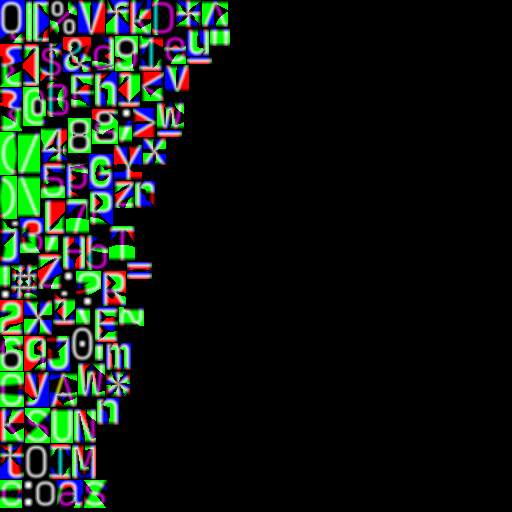
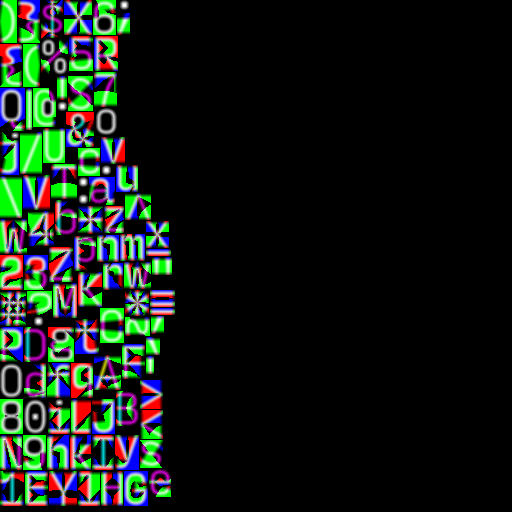
feat(examples): update msdf demo & assets

Changed region(s): [[0.0, 0.0, 0.4688, 1.0]]

diff --git a/examples/webgl-msdf/src/index.ts b/examples/webgl-msdf/src/index.ts
@@ -1,97 +1,230 @@
-import { sin } from "@thi.ng/dsp";
 import { start } from "@thi.ng/hdom";
 import { canvasWebGL } from "@thi.ng/hdom-components";
-import { transform44 } from "@thi.ng/matrices";
+import { fitClamped } from "@thi.ng/math";
+import {
+    concat,
+    lookAt,
+    perspective,
+    transform44
+} from "@thi.ng/matrices";
+import { SYSTEM } from "@thi.ng/random";
+import { fromEvent, Subscription } from "@thi.ng/rstream";
+import { map } from "@thi.ng/transducers";
+import { AttribPool, GLType } from "@thi.ng/vector-pools";
+import {
+    fit3,
+    madd,
+    mixN,
+    mulN,
+    ReadonlyVec,
+    Y3,
+    ZERO3
+} from "@thi.ng/vectors";
 import {
     adaptDPI,
     compileModel,
+    DEFAULT_BLEND,
     draw,
-    FX_SHADER_SPEC,
     GLMat4,
+    GLSL,
     ModelSpec,
-    quad,
-    screen2d,
     shader,
     texture
 } from "@thi.ng/webgl";
 import {
     alignCenter,
     convertGlyphs,
-    MSDF_SHADER,
+    MSDFFont,
+    msdfShader,
     text
 } from "@thi.ng/webgl-msdf";
 import GLYPHS from "../assets/inputmono-extralight-msdf.json";
 import GLYPH_TEX from "../assets/inputmono-extralight.png";
 
+const TEXT = `Do not go gentle into that good night,
+Old age should burn and rave at close of day;
+Rage, rage against the dying of the light.
+
+Though wise men at their end know dark is right,
+Because their words had forked no lightning they
+Do not go gentle into that good night.
+
+Good men, the last wave by, crying how bright
+Their frail deeds might have danced in a green bay,
+Rage, rage against the dying of the light.
+
+Wild men who caught and sang the sun in flight,
+And learn, too late, they grieved it on its way,
+Do not go gentle into that good night.
+
+Grave men, near death, who see with blinding sight
+Blind eyes could blaze like meteors and be gay,
+Rage, rage against the dying of the light.
+
+And you, my father, there on that sad height,
+Curse, bless, me now with your fierce tears, I pray.
+Do not go gentle into that good night.
+Rage, rage against the dying of the light.
+
+Dylan Thomas`;
+
+const createText = (
+    gl: WebGLRenderingContext,
+    font: MSDFFont,
+    img: HTMLImageElement,
+    txt: string,
+    col = [1, 0.8, 0, 1]
+) => {
+    const model = {
+        ...text(font, txt, {
+            align: alignCenter,
+            leading: 1.4,
+            useColor: true
+        }),
+        shader: shader(gl, msdfShader({ color: true })),
+        textures: [
+            texture(gl, {
+                image: img,
+                filter: gl.LINEAR,
+                wrap: gl.CLAMP_TO_EDGE
+            })
+        ],
+        uniforms: {
+            bg: [0, 0, 0, 1],
+            thresh: -0.2
+        }
+    };
+    // update bottom vertex colors of each character
+    for (let i = 2; i < model.attribPool.capacity; i += 4) {
+        model.attribPool.setAttribValues("color", [col, col], i);
+    }
+    return compileModel(gl, model);
+};
+
+const createStarField = (gl: WebGLRenderingContext, num = 1000) => {
+    const pool = new AttribPool({
+        attribs: {
+            position: { type: GLType.F32, size: 3, byteOffset: 0 },
+            dir: { type: GLType.F32, size: 3, byteOffset: 12 },
+            id: { type: GLType.F32, size: 1, byteOffset: 24 }
+        },
+        mem: {
+            size: num * 28 + 8
+        },
+        num
+    });
+    for (let i = 0, r = SYSTEM; i < num; i++) {
+        const pos = [r.minmax(-15, 15), r.minmax(0, 10), 0];
+        pool.setAttribValue("position", i, pos);
+        pool.setAttribValue(
+            "dir",
+            i,
+            mixN([], mulN([], pos, 0.1), [0, -1, r.minmax(2, 5)], 0.8)
+        );
+        pool.setAttribValue("id", i, i);
+    }
+    return compileModel(gl, {
+        attribs: null,
+        attribPool: pool,
+        uniforms: {},
+        shader: shader(gl, {
+            vs: `void main() {
+                v_alpha = sin(a_id * 37.13829) * 0.3 + 0.7;
+                vec3 pos = mod(a_position + a_dir * u_time, 10.) - vec3(5.);
+                gl_Position = u_proj * u_modelview * vec4(pos, 1.);
+                gl_PointSize = 20. / gl_Position.w;
+            }`,
+            fs: `void main() {
+                float a = 1. - smoothstep(0.1, 0.5, length(gl_PointCoord - vec2(0.5)));
+                o_fragColor = vec4(v_alpha,v_alpha, v_alpha, a);
+            }`,
+            attribs: {
+                position: GLSL.vec3,
+                dir: GLSL.vec3,
+                id: GLSL.float
+            },
+            varying: {
+                alpha: GLSL.float
+            },
+            uniforms: {
+                modelview: GLSL.mat4,
+                proj: GLSL.mat4,
+                time: GLSL.float
+            },
+            state: {
+                blend: true,
+                blendFn: DEFAULT_BLEND
+            }
+        }),
+        mode: gl.POINTS,
+        num
+    });
+};
+
 const app = () => {
     const glyphs = convertGlyphs(GLYPHS);
-    let bgmodel: ModelSpec;
-    let model: ModelSpec;
-    let bg = 0.2;
+    let stars: ModelSpec;
+    let body: ModelSpec;
+    let mouse: Subscription<any, ReadonlyVec>;
+    let bg = 0;
     const canvas = canvasWebGL({
-        init: async (_, gl) => {
+        init: async (el, gl) => {
             const img = new Image();
             img.src = GLYPH_TEX;
             await img.decode();
-            model = compileModel(
-                gl,
-                text(
-                    glyphs,
-                    "01234567890\n-=`~!@#$%^&*()_+;',./:\"{}<>?\\|\nabcdefghijklmnopqrstuvwxyz\nABCDEFGHIJKLMNOPQRSTUVWXYZ",
-                    { align: alignCenter, useColor: true }
+            body = createText(gl, glyphs, img, TEXT);
+            stars = createStarField(gl);
+            body.uniforms.proj = stars.uniforms.proj = <GLMat4>(
+                perspective(
+                    [],
+                    60,
+                    gl.drawingBufferWidth / gl.drawingBufferHeight,
+                    0.1,
+                    20
                 )
             );
-            model.shader = shader(gl, MSDF_SHADER({ color: true }));
-            model.textures = [
-                texture(gl, {
-                    image: img,
-                    filter: gl.LINEAR,
-                    wrap: gl.CLAMP_TO_EDGE
-                })
-            ];
-            model.uniforms.proj = screen2d(
-                gl.drawingBufferWidth,
-                gl.drawingBufferHeight
+            mouse = fromEvent(el, "mousemove").transform(
+                map((e: MouseEvent) =>
+                    fit3(
+                        [],
+                        [e.clientX, e.clientY, 0],
+                        ZERO3,
+                        [window.innerWidth, window.innerHeight, 0],
+                        [-1, -1, 0],
+                        [1, 1, 0]
+                    )
+                )
             );
-            model.uniforms.fg = [0, 1, 1, 1];
-            model.uniforms.bg = [0, 0, 0, 1];
-            model.uniforms.thresh = -0.2;
-
-            // update bottom vertex colors for each character
-            for (
-                let i = 2, col = [1, 0, 0, 1];
-                i < model.attribPool.capacity;
-                i += 4
-            ) {
-                model.attribPool.setAttribValues("color", [col, col], i);
-            }
-            model.attribs.color.buffer.set(model.attribPool.bytes());
-
-            bgmodel = compileModel(gl, {
-                ...quad(),
-                shader: shader(gl, FX_SHADER_SPEC),
-                textures: model.textures
-            });
         },
         update: (el, gl, __, time) => {
-            if (!model) return;
+            if (!body) return;
             adaptDPI(el, window.innerWidth, window.innerHeight);
-            model.uniforms.modelview = <GLMat4>(
-                transform44(
+            // prettier-ignore
+            const eye = madd(
+                null,
+                [0, -4, 5],
+                mouse.deref() || ZERO3,
+                [2, 0.5, 0]
+            );
+            const view = lookAt([], eye, ZERO3, Y3);
+            body.uniforms.modelview = <GLMat4>(
+                concat(
                     [],
-                    [
-                        gl.drawingBufferWidth / 2,
-                        gl.drawingBufferHeight * 0.45,
-                        0
-                    ],
-                    [0, 0, time * 0.0003],
-                    sin(time, 0.0001, 1.66, 2)
+                    view,
+                    transform44(
+                        [],
+                        [0, fitClamped(time % 70000, 0, 70000, -3.5, 20), 0],
+                        [0, 0, 0],
+                        mulN(null, [1, -1, 1], 0.005)
+                    )
                 )
             );
+            stars.uniforms.modelview = <GLMat4>view;
+            stars.uniforms.time = 10 + time * 0.001;
             gl.viewport(0, 0, gl.drawingBufferWidth, gl.drawingBufferHeight);
             gl.clearColor(bg, bg, bg, 1);
             gl.clear(gl.COLOR_BUFFER_BIT | gl.DEPTH_BUFFER_BIT);
-            draw([bgmodel, model]);
+            draw([stars, body]);
         }
     });
     return [canvas, { width: window.innerWidth, height: window.innerHeight }];
